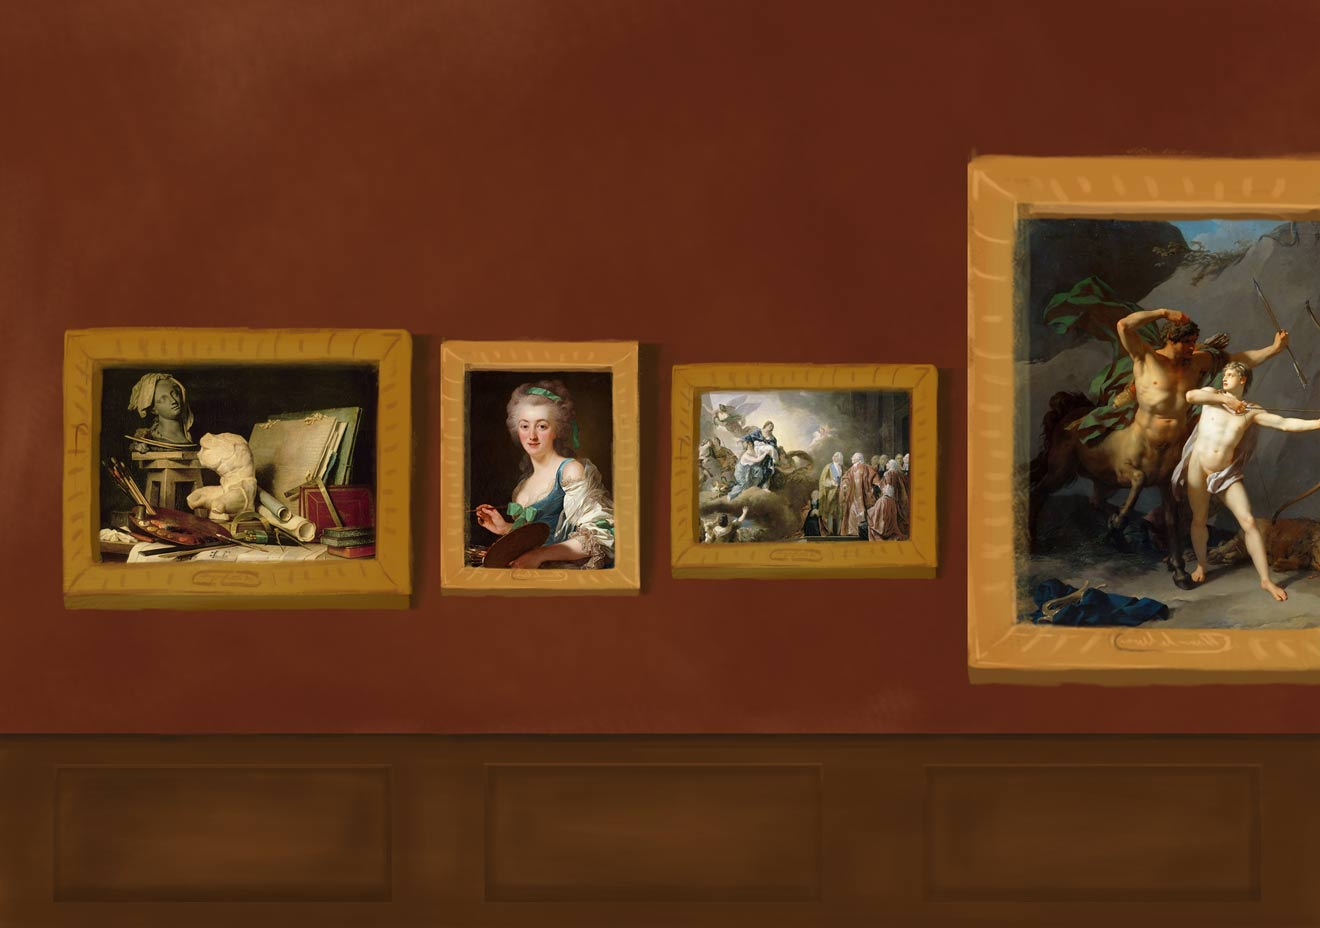
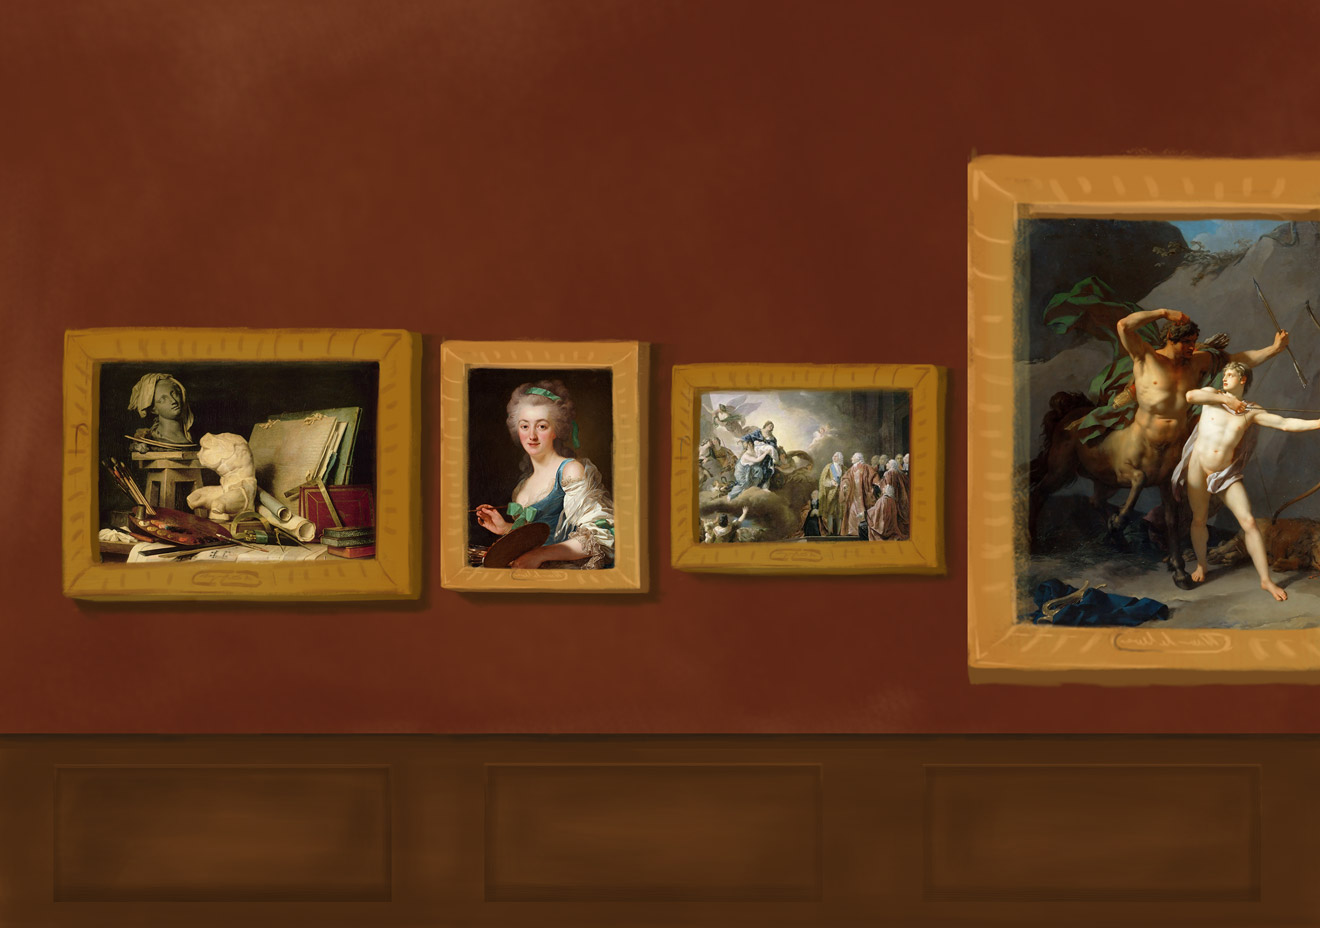
:bento: Added overlayed attribut frame

Changed region(s): [[0.0311, 0.3438, 0.7144, 0.6562], [0.0621, 0.375, 0.1553, 0.4062], [0.1864, 0.375, 0.2174, 0.4062]]

diff --git a/src/classes/Components/Room2.ts b/src/classes/Components/Room2.ts
@@ -76,6 +76,11 @@ export default class Room2 extends LoadedComponent {
                     frame_alpha: 'room2/scene_02_cadres_v01.png',
                     frame_shadow: 'room2/scene_02_cadres_ombre_v01.png',
 
+                    attribut: 'room2/tableau_attribu_peinture.jpg',
+                    attribut_sketch: 'room2/tableau_attribu_peinture_croquis.jpg',
+                    attribut_frame: 'room2/cadre_attribu_peinture_v01.jpg',
+                    attribut_frame_alpha: 'room2/cadre_attribu_peinture_v01.png',
+
                     peace_painting: 'room/o/interactive/oeuvre.jpg',
                     magnifying_glass: 'loupe.png',
                 },
@@ -159,6 +164,13 @@ export default class Room2 extends LoadedComponent {
                         rotation: new THREE.Euler(-Math.PI / 2, 0, 0),
                         texture: textures.frame_shadow,
                         depthWrite: false,
+                    }),
+                    new SceneObject({
+                        size: new THREE.Vector2(this.size.z * (377 / 1320), this.size.y * (320 / 928)),
+                        position: new THREE.Vector3(this.size.x / 2 - 0.01, 0, -(0.5 - 239 / 1320) * this.size.z),
+                        rotation: new THREE.Euler(0, -Math.PI / 2, 0),
+                        texture: textures.attribut_frame,
+                        alpha: textures.attribut_frame_alpha,
                     }),
                     new Component(
                         () => {
